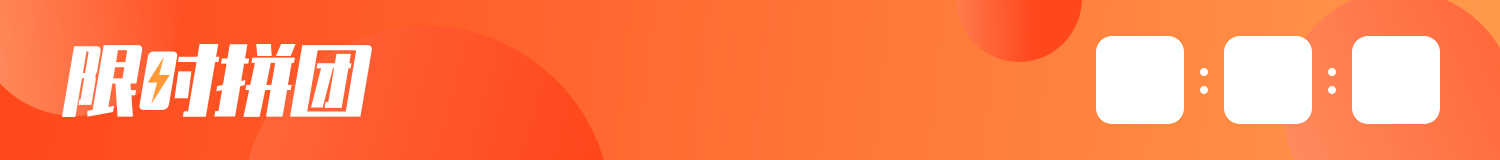
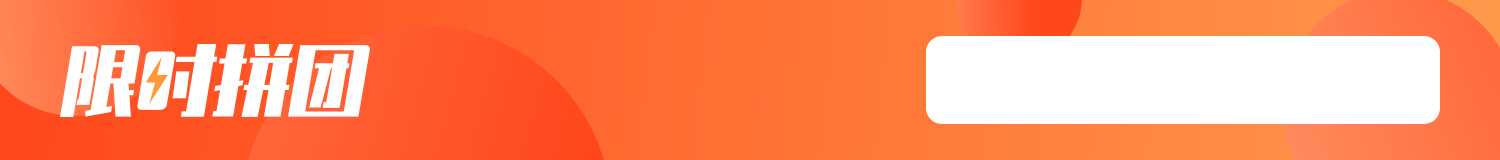
7.8

diff --git a/pages/logs/logs.js b/pages/logs/logs.js
@@ -1,8 +1,10 @@
 const app = getApp()
 Page({
   data: {
+    subject:[ {'id':-1, 'title': '推荐'}],
     current_special:-1,
     current_subject: 0,
+    ad:["1","1","1","1","1","1"]
   },
 
   onLoad: function (options) {
@@ -76,15 +78,23 @@ Page({
   swichNav_subject: function (e) {
     var that = this
     var cur = e.target.dataset.current;
+    if(cur == 0){
+      that.setData({
+        current_subject: cur,
+        current_special:-1,
+      })
+    }else{
+      that.setData({
+        current_subject: cur,
+        current_special:-1,
+        did: that.data.subject[cur].id
+      })
+  
+      that.getspecial()  //获取专题
+      that.getcourse()     //获取课程
+    }
 
-    that.setData({
-      current_subject: cur,
-      current_special:-1,
-      did: that.data.subject[cur].id
-    })
-
-    that.getspecial()  //获取专题
-    that.getcourse()     //获取课程
+    
   },
 
   to_course_detail:function(e){
@@ -110,7 +120,7 @@ Page({
     that.setData({
       grade_index: xb,
       gid: that.data.grade[xb].id,
-      current_subject: 0
+      current_subject: -1
     })
     if (wx.getStorageSync("login")) {
       
@@ -126,8 +136,8 @@ Page({
 
           wx.setStorageSync('gid', that.data.grade[xb].id)
           that.getsubject()   //获取科目
-          that.getcourse()    //获取课程
-          that.getspecial()      //获取专题
+          // that.getcourse()    //获取课程
+          // that.getspecial()      //获取专题
           that.setData({
             grade_select: false
           })
@@ -143,8 +153,8 @@ Page({
     }else{
       wx.setStorageSync('gid', that.data.grade[xb].id)
       that.getsubject()   //获取科目
-      that.getcourse()    //获取课程
-      that.getspecial()      //获取专题
+      // that.getcourse()    //获取课程
+      // that.getspecial()      //获取专题
       that.setData({
         grade_select: false
       })
@@ -240,21 +250,24 @@ Page({
         console.log(d.data.data)
         let arr2 = [];
         for (let i in d.data.data) {
-          arr2.push(d.data.data[i]);   //对象转换为数组
+          that.data.subject.push(d.data.data[i]);   //对象转换为数组
         }
-        console.log(arr2)
+        // console.log(arr2)
         that.setData({
-          subject: arr2
+          subject: that.data.subject
         })
-        that.setData({
-          did: that.data.subject[that.data.current_subject].id
-        })
-        that.getspecial()      //获取专题
-        if (that.data.current_special != -1) {
-          that.special_course()  //获取专题课程
-        }else{
-          that.getcourse()    //获取课程
+        if(that.data.current_subject > -1){
+          that.setData({
+            did: that.data.subject[that.data.current_subject].id
+          })
+          that.getspecial()      //获取专题
+          if (that.data.current_special != -1) {
+            that.special_course()  //获取专题课程
+          }else{
+            that.getcourse()    //获取课程
+          }
         }
+        
       } else {
         console.log(d.data.msg, "获取科目失败")
       }
@@ -397,7 +410,7 @@ Page({
     console.log(that.data.gid,"onshow")
    
     that.getsubject()   //获取学科
-    that.getcourse()    //获取课程
+    // that.getcourse()    //获取课程
     
   },
 

diff --git a/pages/groupBuy/groupBuy.js b/pages/groupBuy/groupBuy.js
@@ -49,14 +49,17 @@ Page({
       console.log(params, "课程详情接口参数")
       app.ols.course_info3(params).then(d => {
         that.handle_data1(d)   //课程详情数据处理
-        var timestamp = (Date.parse(new Date()))/1000
-        console.log(timestamp,"timestamp")
-        var cs_total_micro_second = d.data.data.endtime -  timestamp
-        console.log(cs_total_micro_second,"cs_total_micro_second")
-        that.setData({
-          total_micro_second: cs_total_micro_second
-        })
-      that.count_down(that);
+        if(d.data.data.pay_status <= 1 || d.data.data.pay_status >= 5){
+          var timestamp = (Date.parse(new Date()))/1000
+          console.log(timestamp,"timestamp")
+          var cs_total_micro_second = d.data.data.endtime -  timestamp
+          console.log(cs_total_micro_second,"cs_total_micro_second")
+          that.setData({
+            total_micro_second: cs_total_micro_second
+          })
+          that.count_down(that);
+        }
+        
       })
     
   },
@@ -201,6 +204,16 @@ Page({
       url: '../../pages/pay/pay?kid=' + that.data.kid,     //去支付
     })
   },
+
+    //去拼团
+    to_groupPay:function(e){
+      let that = this
+      // var kid = e.currentTarget.dataset.kid
+      // console.log(kid)
+      wx.navigateTo({
+        url: '../../pages/groupPay/groupPay?kid=' + that.data.kid,     //去支付
+      })
+    },
 
   //获取微信绑定手机号登录
   getPhoneNumber: function (e) {
@@ -399,6 +412,7 @@ Page({
 
  //时间格式整理
  dateformat: function (micro_second) {
+  var day = Math.floor(micro_second / (60 * 60 * 24)); 
   // 秒数
   var second = Math.floor(micro_second / 1000);
   // 小时位
@@ -407,7 +421,7 @@ Page({
   var min = this.fill_zero_prefix(Math.floor((second - hr * 3600) / 60));
   // 秒位
   var sec = this.fill_zero_prefix((second - hr * 3600 - min * 60));// equal to => var sec = second % 60;
-  return hr + ":" + min + ":" + sec;
+  return day + " 天 " + hr + " : " + min + " : " + sec;
 },
 // dateformatforreport: function (micro_second) {
 //   // 秒数

diff --git a/utils/ols.js b/utils/ols.js
@@ -165,6 +165,11 @@ function preorder(params) {
   return fetch.olsfetchpost(URI, 'wepay/preorder', params)
 }
 
+//拼团预支付
+function group_preorder3(params) {
+  return fetch.olsfetchpost(URI, 'v3/wepay/pregrouporder', params)
+}
+
 //订单详情
 function order_detail(params) {
   return fetch.olsfetchpost(URI, 'order/getinfo', params)
@@ -344,4 +349,4 @@ function group_list3(params) {
 
 
 
-module.exports = { login, getclassroom, add_adress, getdefault, setinfo, getlist, discipline, gettoplist, order_all, wrong, my_course_all, test_ques1, test_ques2, grade_course1, grade_course2, course_info1, course_info2, grade_update, course_cata1, course_cata2, handout, getvideo, getvideo_info, preorder, order_detail, order_wait, order_ed, order_close, test_id, setmark, test_explain, ques_detail, ques_info, cp_ans_submit, update_cpsubmit, cp_report, cp_analysis, cp_ans_id, wrong_id, wrong_detail, get_live, work_submit, cp_comment, update_testsubmit, test_report, end_report1, end_report2, end_report3, end_report4, get_free, user_number, getpushlist, testques_info, getplaypushlist, avatar_update, video_end, video_start, test_start, test_end,judge_share,grade_course3,course_info3,course_cata3,group_list3}
+module.exports = { login, getclassroom, add_adress, getdefault, setinfo, getlist, discipline, gettoplist, order_all, wrong, my_course_all, test_ques1, test_ques2, grade_course1, grade_course2, course_info1, course_info2, grade_update, course_cata1, course_cata2, handout, getvideo, getvideo_info, preorder, order_detail, order_wait, order_ed, order_close, test_id, setmark, test_explain, ques_detail, ques_info, cp_ans_submit, update_cpsubmit, cp_report, cp_analysis, cp_ans_id, wrong_id, wrong_detail, get_live, work_submit, cp_comment, update_testsubmit, test_report, end_report1, end_report2, end_report3, end_report4, get_free, user_number, getpushlist, testques_info, getplaypushlist, avatar_update, video_end, video_start, test_start, test_end,judge_share,grade_course3,course_info3,course_cata3,group_list3,group_preorder3}

diff --git a/pages/groupPay/groupPay.js b/pages/groupPay/groupPay.js
@@ -45,7 +45,7 @@ Page({
       "token": wx.getStorageSync("token"),
       "kid": kid
     }
-    app.ols.course_info1(params).then(d => {
+    app.ols.course_info3(params).then(d => {
       console.log(d)
       if (d.data.code == 0) {
         console.log(d.data.data)
@@ -65,10 +65,11 @@ Page({
     
       var params = {
         "token": wx.getStorageSync("token"),
-        "kid": that.data.kid
+        "pid": that.data.course_info.pt_id,
+        "ptid": 0
       }
     console.log(params,"预支付接口")
-      app.ols.preorder(params).then(d => {
+      app.ols.group_preorder3(params).then(d => {
         console.log(d)
         if (d.data.code == 0) {
           var ob = JSON.parse(d.data.data.paystr)

diff --git a/pages/cs/cs.js b/pages/cs/cs.js
@@ -106,7 +106,7 @@ Page({
    * 生命周期函数--监听页面卸载
    */
   onUnload: function () {
-
+    clearInterval(timer);   
   },
 
   /**
